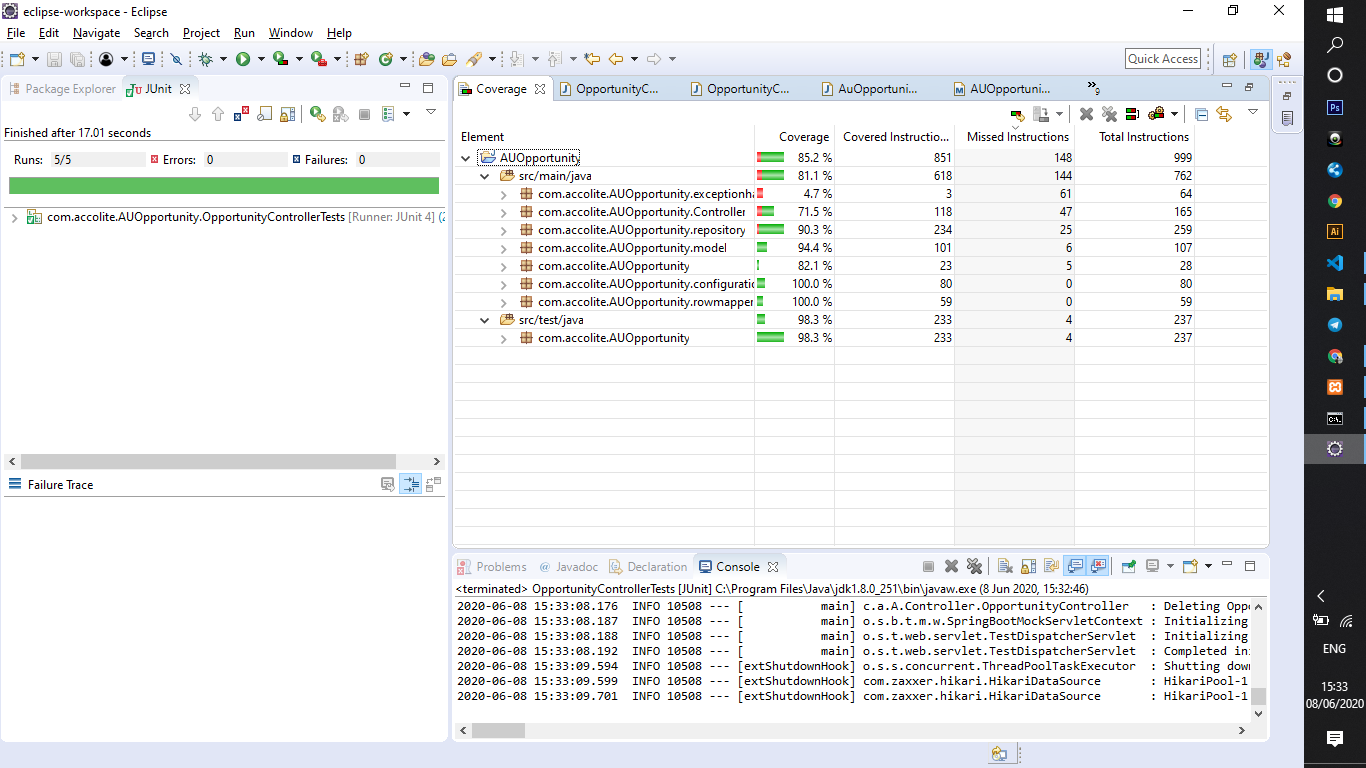
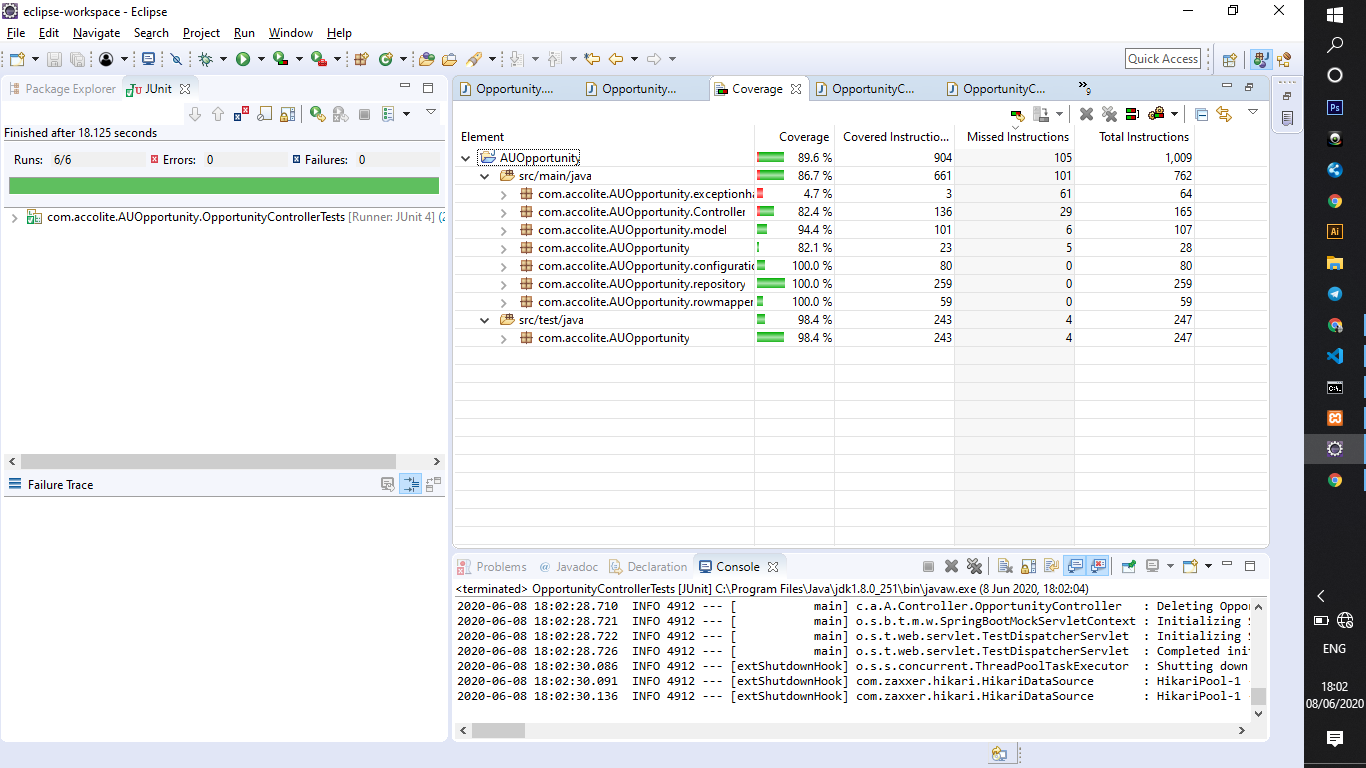
updated cors config & testcases

diff --git a/Angular/src/app/login-user.service.spec.ts b/Angular/src/app/login-user.service.spec.ts
@@ -25,15 +25,6 @@ describe('LoginUserService', () => {
     
     });
     
-    
-    
-    const  requestt = httpMock.expectOne('http://localhost:8080/adduser/Jayaprakash/shanmugam/test@accoliteindia.com');
-    
-    expect(requestt.request.method).toBe("GET");
-  
-    
-    httpMock.verify();
-    
     });
     
     });

diff --git a/Angular/src/app/opportunityservice.service.spec.ts b/Angular/src/app/opportunityservice.service.spec.ts
@@ -54,7 +54,6 @@ describe('OpportunityserviceService', () => {
           .subscribe(data => {
             expect(data).toEqual('Opportunity created Successfully');
           });
-  
  
       });
     });

diff --git a/Springboot/AUOpportunity/src/test/java/com/accolite/AUOpportunity/OpportunityControllerTests.java b/Springboot/AUOpportunity/src/test/java/com/accolite/AUOpportunity/OpportunityControllerTests.java
@@ -66,7 +66,7 @@ public class OpportunityControllerTests {
 	{
 		
 		Opportunity opp = new Opportunity();
-		opp.setOid(1025);
+		opp.setOid(1029);
 		opp.setDescription("AppDeveloper");
 		opp.setLocation("chennai");
 		opp.setSkills("Java");
@@ -91,7 +91,7 @@ public class OpportunityControllerTests {
 	
 	@Test
 	public void testdeleteOpportunity() throws Exception {
-	       mockMvc.perform(delete("/deleteopportunity/1024").contentType(MediaType.APPLICATION_JSON)).andExpect(status().isOk());
+	       mockMvc.perform(delete("/deleteopportunity/1025").contentType(MediaType.APPLICATION_JSON)).andExpect(status().isOk());
 			
 }
 	
@@ -125,12 +125,21 @@ public class OpportunityControllerTests {
 	@Autowired
 	private OpportunityController opc;
 	
+
+	
+	@Test
+	public void ValidateUserTest()
+	{
+		
+	    assertEquals("Authenticated User",opc.ValidateUser("102430502860166805172","Jayaprakash","Shanmugam","jayaprakash.shanmugam@accoliteindia.com"));
+	}
+	
 	
 	@Test
 	public void getAllOpportunityTest()
 	{
 		
-	    assertEquals(6,opc.customerInformation().size());
+	    assertEquals(6,opc.OpportunityInformation().size());
 	}
 	
 	

diff --git a/Springboot/AUOpportunity/src/main/java/com/accolite/AUOpportunity/Controller/OpportunityController.java b/Springboot/AUOpportunity/src/main/java/com/accolite/AUOpportunity/Controller/OpportunityController.java
@@ -38,7 +38,7 @@ public class OpportunityController {
 	boolean auth = true;
 	
 	@GetMapping("/getoppurtunities")
-    public List<Opportunity> customerInformation() {
+    public List<Opportunity> OpportunityInformation() {
 		if(auth) {
 			
 			logger.info("Getting Opportunity details");
